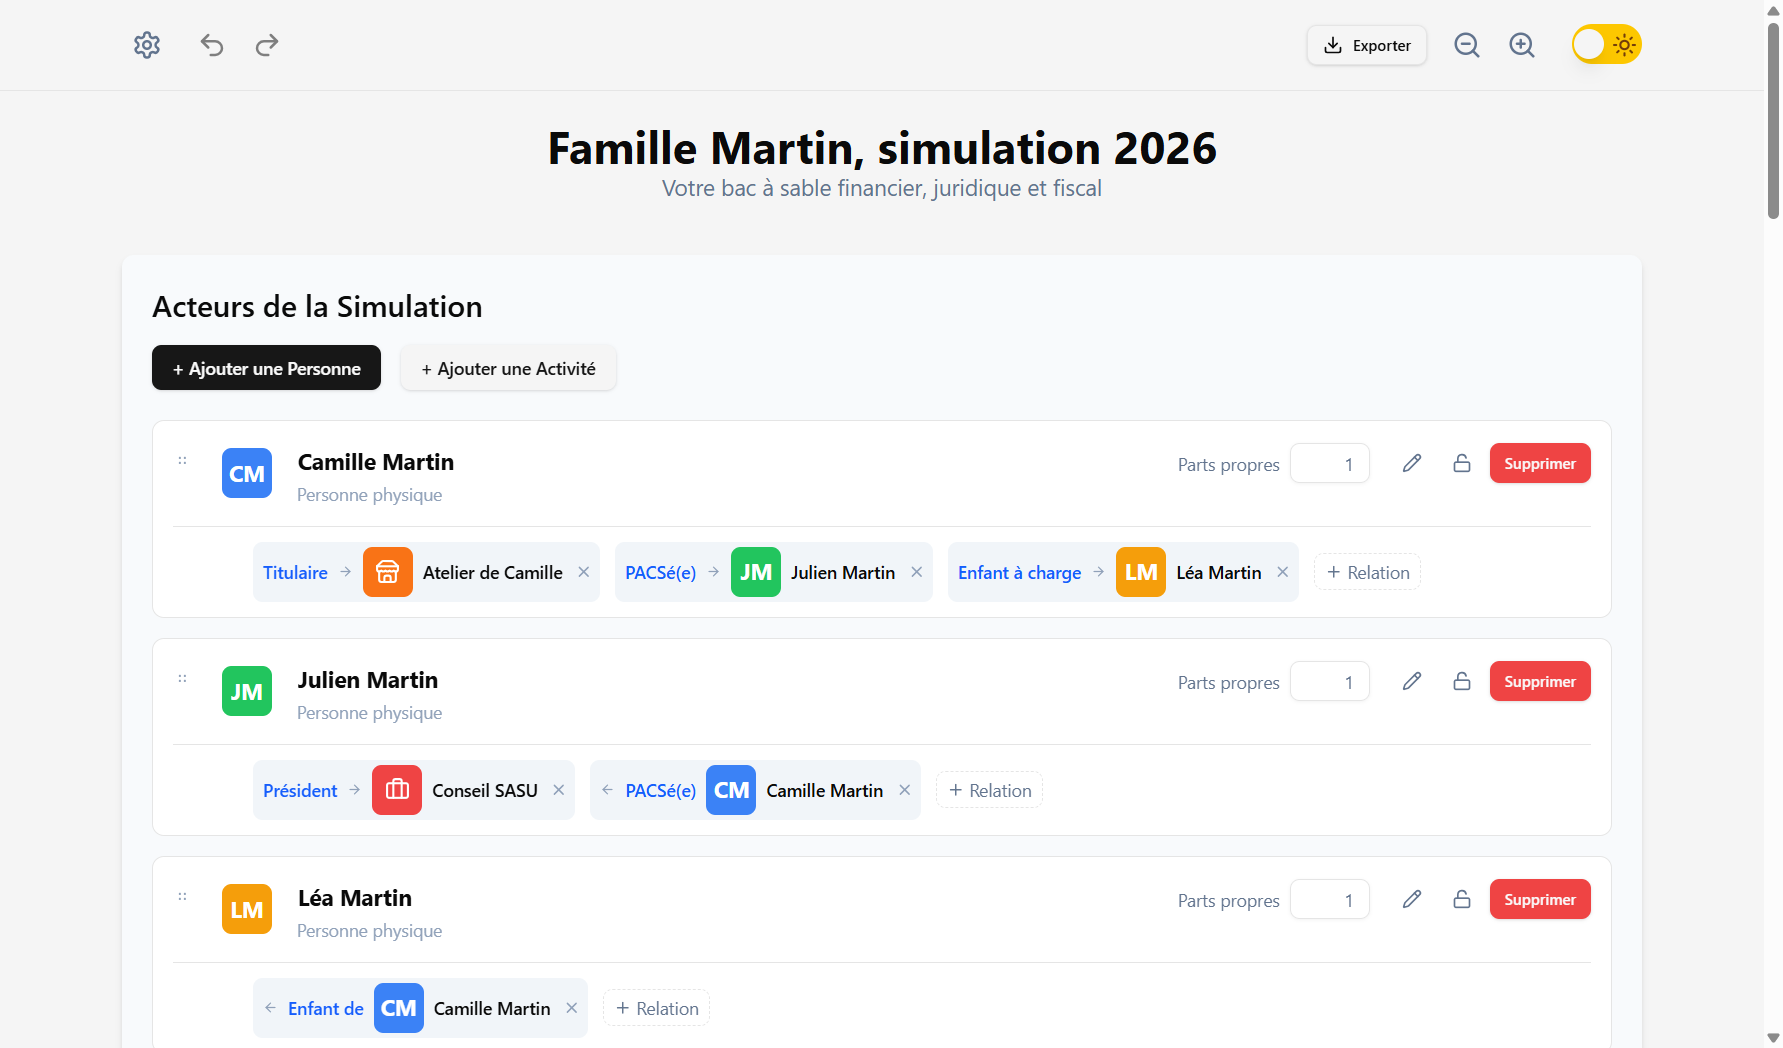
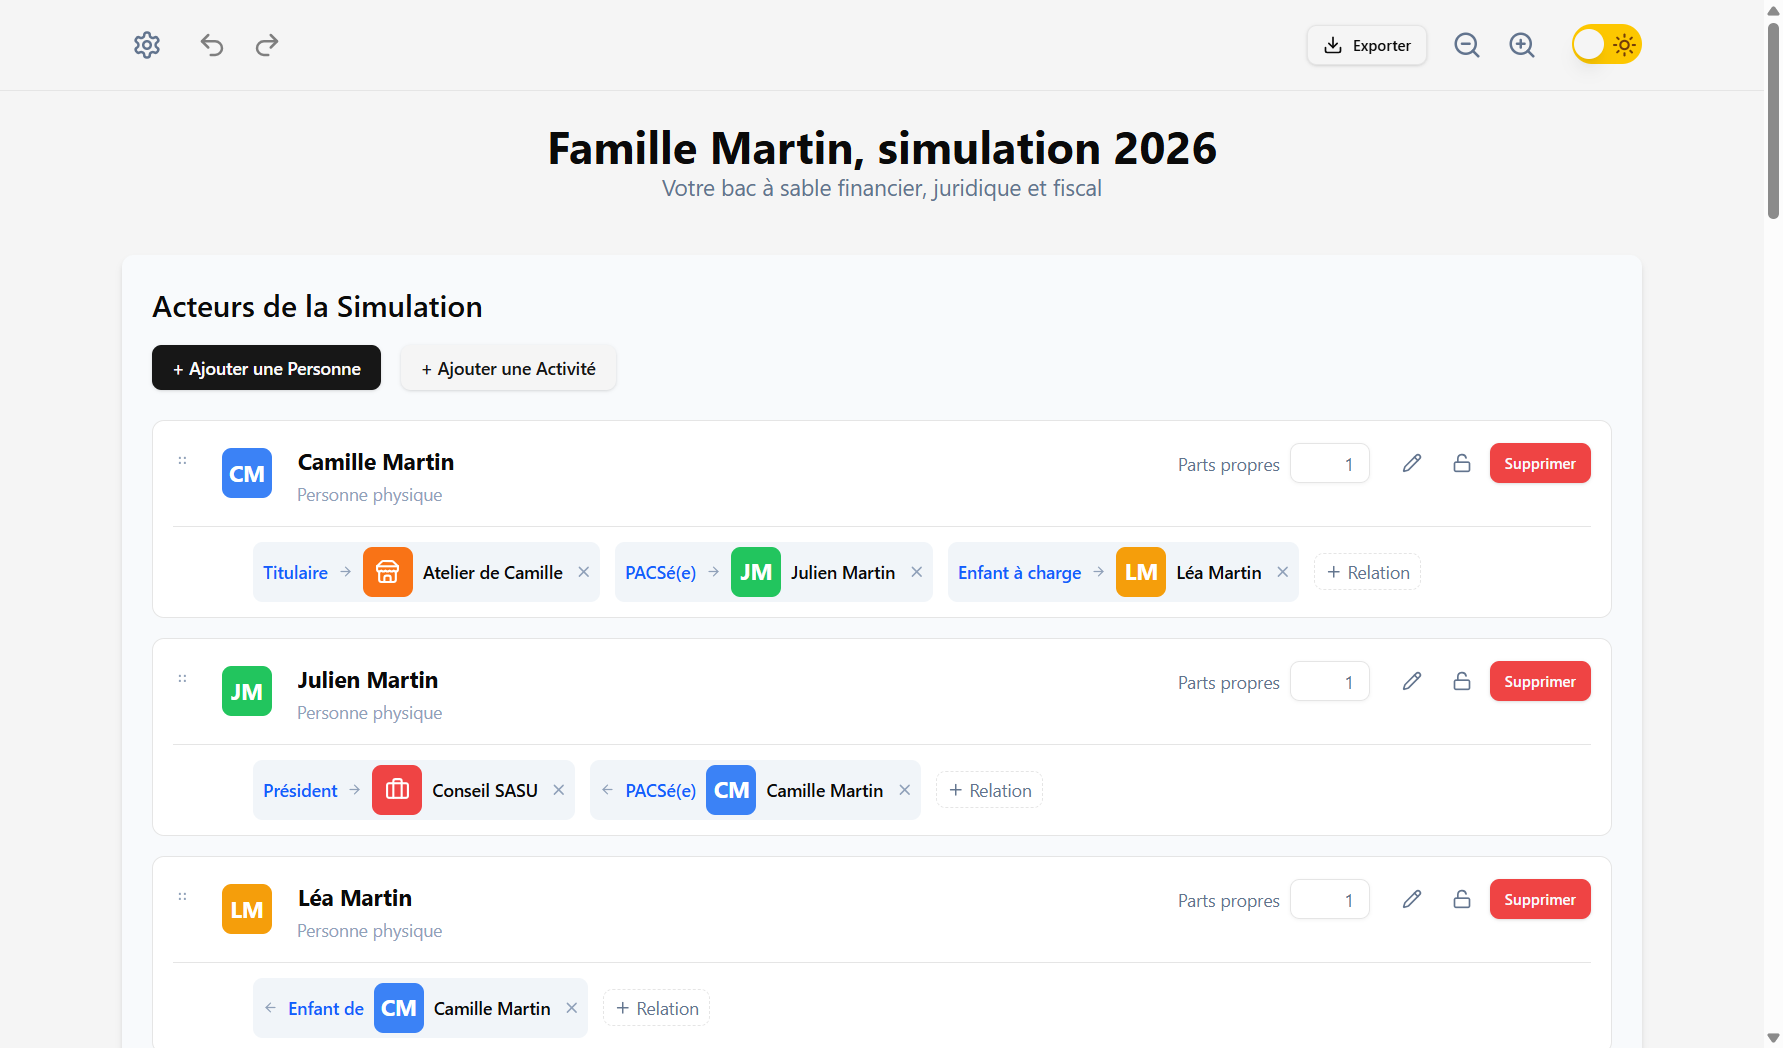
feat: Signaler le dépassement des seuils de franchise de TVA en micro-entreprise
Au-delà du seuil de base, la TVA est due l'année suivante ; au-delà du seuil
majoré, dès le jour du dépassement. La TVA n'est toujours pas calculée : les
montants saisis sont considérés hors taxe.

La simulation d'exemple reste sous le seuil de franchise des prestations ;
captures du README regénérées.

diff --git a/src/backend/logic/references/micro.reference.test.ts b/src/backend/logic/references/micro.reference.test.ts
@@ -17,6 +17,7 @@ import type { MicroEntreprise } from "../../../types.js"
  *   sans pouvoir dépasser le chiffre d'affaires ;
  * - versement libératoire : vente 1 %, BIC 1,7 %, BNC 2,2 % du CA, si le RFR 2024 ne dépasse pas 29 315 € par part ;
  * - plafonds 2026 : 83 600 € de prestations de services, 203 100 € de chiffre d'affaires total ;
+ * - franchise en base de TVA : 37 500 € de prestations (seuil majoré 41 250 €), 85 000 € au total (93 500 €) ;
  * - barème 2026 pour une part : 0 % jusqu'à 11 600 €, 11 % jusqu'à 29 579 €, 30 % jusqu'à 84 577 €, 41 % jusqu'à
  *   181 917 €, 45 % au-delà ; impôt cumulé à 29 579 € : 17 979 x 11 % = 1 977,69 € ;
  * - décote d'un célibataire : 897 € - 45,25 % de l'impôt brut, si elle est positive.
@@ -27,6 +28,11 @@ import type { MicroEntreprise } from "../../../types.js"
 
 const alice = personne("alice")
 const titulaire = [relation("alice", "m1", "Titulaire")]
+
+/** Avertissements sur les plafonds du régime, sans ceux de la franchise de TVA. */
+const plafonds = (warnings: string[]) => warnings.filter(w => w.startsWith("Plafond"))
+/** 40 000 € de prestations : au-dessus du seuil de franchise de TVA (37 500 €), sous le seuil majoré (41 250 €). */
+const tvaAnneeSuivante = expect.stringMatching(/^Seuil de franchise en base de TVA dépassé \(prestations de services 40\s000 € pour un seuil de 37\s500 €\)/)
 
 function simulerMicro(flux: Flux[], options: Partial<Pick<MicroEntreprise, "beneficieACRE" | "opteVFL" | "rfrN2">> = {}) {
   const entreprise: MicroEntreprise = { ...micro("m1"), ...options }
@@ -41,7 +47,7 @@ casDeReference("Cas de référence 2026 : micro-entreprise", () => {
     // Net : 40 000 - 10 240 - 1 467,67 = 28 292,33 €.
     const report = simulerMicro([["m1", "ca_micro_services_bnc", 40000]])
 
-    expect(activite(report, "m1")).toMatchObject({ chiffreAffaires: 40000, cotisationsSociales: 10240, revenuVerse: 29760, warnings: [] })
+    expect(activite(report, "m1")).toMatchObject({ chiffreAffaires: 40000, cotisationsSociales: 10240, revenuVerse: 29760, warnings: [tvaAnneeSuivante] })
     expect(foyerDe(report, "alice")).toMatchObject({ totalParts: 1, revenuImposableGlobal: 26400, impotSurLeRevenu: 1468, prelevementsSociaux: 0, netApresImpots: 28292 })
     verifierIdentiteDuBilan(report)
   })
@@ -137,7 +143,7 @@ casDeReference("Cas de référence 2026 : micro-entreprise", () => {
     expect(activite(report, "m1")).toMatchObject({
       cotisationsSociales: 10240,
       versementLiberatoire: { plafondRfr: 29315, partsFiscales: 1, rfrN2: 25000, eligible: true, applique: true },
-      warnings: []
+      warnings: [tvaAnneeSuivante]
     })
     expect(foyerDe(report, "alice")).toMatchObject({ revenuImposableGlobal: 0, impotSurLeRevenu: 880, netApresImpots: 28880 })
     verifierIdentiteDuBilan(report)
@@ -179,15 +185,27 @@ casDeReference("Cas de référence 2026 : micro-entreprise", () => {
     const resultat = activite(report, "m1")
 
     expect(resultat.cotisationsSociales).toBe(23040)
-    expect(resultat.warnings).toHaveLength(1)
-    expect(resultat.warnings[0]).toContain("prestations de services")
+    expect(plafonds(resultat.warnings)).toEqual([expect.stringContaining("prestations de services")])
     expect(foyerDe(report, "alice")).toMatchObject({ revenuImposableGlobal: 59400, impotSurLeRevenu: 10924, netApresImpots: 56036 })
   })
 
   it("prestations BNC de 83 600 € : plafond atteint mais pas dépassé", () => {
     const report = simulerMicro([["m1", "ca_micro_services_bnc", 83600]])
 
-    expect(activite(report, "m1").warnings).toEqual([])
+    expect(plafonds(activite(report, "m1").warnings)).toEqual([])
+  })
+
+  it("franchise en base de TVA : 37 500 € de prestations restent en franchise, 41 300 € la font perdre aussitôt", () => {
+    const tva = (ca: number) => activite(simulerMicro([["m1", "ca_micro_services_bnc", ca]]), "m1").warnings.filter(w => w.includes("TVA"))
+
+    expect(tva(37500)).toEqual([])
+    expect(tva(37600)).toEqual([expect.stringMatching(/^Seuil de franchise .*37\s500 €.*1er janvier suivant/)])
+    expect(tva(41300)).toEqual([expect.stringMatching(/^Franchise en base de TVA perdue .*41\s250 €.*dès le jour du dépassement/)])
+  })
+
+  it("franchise en base de TVA : 93 600 € de vente dépassent le seuil majoré de 93 500 €", () => {
+    const report = simulerMicro([["m1", "ca_micro_vente", 93600]])
+    expect(activite(report, "m1").warnings).toEqual([expect.stringMatching(/^Franchise en base de TVA perdue \(chiffre d'affaires total 93\s600 € pour un seuil de 93\s500 €\)/)])
   })
 
   it("activité mixte : vente 180 000 € et BIC 30 000 €, plafond total dépassé", () => {
@@ -203,9 +221,10 @@ casDeReference("Cas de référence 2026 : micro-entreprise", () => {
     const resultat = activite(report, "m1")
 
     expect(resultat.cotisationsSociales).toBe(28500)
-    expect(resultat.warnings).toHaveLength(1)
-    expect(resultat.warnings[0]).toContain("chiffre d'affaires total")
-    expect(resultat.warnings[0]).not.toContain("prestations de services")
+    const [plafond, ...autres] = plafonds(resultat.warnings)
+    expect(autres).toEqual([])
+    expect(plafond).toContain("chiffre d'affaires total")
+    expect(plafond).not.toContain("prestations de services")
     expect(foyerDe(report, "alice")).toMatchObject({ revenuImposableGlobal: 67200, impotSurLeRevenu: 13264, netApresImpots: 168236 })
   })
 

diff --git a/src/backend/logic/calculsIndividuels.test.ts b/src/backend/logic/calculsIndividuels.test.ts
@@ -11,6 +11,9 @@ function micro(entrees: Partial<EntreesMicro>) {
   return calculerMicro({ caVente: 0, caServicesBic: 0, caServicesBnc: 0, beneficieACRE: false, opteVFL: false, ...entrees }, reglesDeTest)
 }
 
+/** Avertissements sur les plafonds du régime, sans ceux de la franchise de TVA. */
+const plafonds = (warnings: string[]) => warnings.filter(w => w.startsWith("Plafond"))
+
 describe("calculerMicro", () => {
   it("calcule les cotisations et le revenu imposable par nature d'activité", () => {
     const resultat = micro({ caVente: 10000, caServicesBic: 20000, caServicesBnc: 30000 })
@@ -19,13 +22,13 @@ describe("calculerMicro", () => {
     expect(resultat.cotisationsSociales).toBeCloseTo(1000 + 4000 + 7500)
     expect(resultat.revenuImposable).toBeCloseTo(3000 + 10000 + 21000)
     expect(resultat.versementLiberatoire).toBe(0)
-    expect(resultat.warnings).toEqual([])
+    expect(plafonds(resultat.warnings)).toEqual([])
   })
 
   it("prévient qu'avec l'ACRE, les droits à la retraite sont réduits", () => {
     const resultat = micro({ caServicesBnc: 50000, beneficieACRE: true })
 
-    expect(resultat.warnings).toEqual([expect.stringMatching(/^ACRE : cotisations réduites de 50 %.*moins de trimestres de retraite/)])
+    expect(resultat.warnings).toContainEqual(expect.stringMatching(/^ACRE : cotisations réduites de 50 %.*moins de trimestres de retraite/))
   })
 
   it("réduit les cotisations avec l'ACRE, sans toucher au revenu imposable", () => {
@@ -69,25 +72,50 @@ describe("calculerMicro", () => {
     })
   })
 
+  // Règles de test : franchise de TVA à 40 000 € (seuil majoré 45 000 €) pour les services, 100 000 € (110 000 €) au total.
+  describe("franchise en base de TVA", () => {
+    const tva = (entrees: Partial<EntreesMicro>) => micro(entrees).warnings.filter(w => w.includes("TVA"))
+
+    it("ne dit rien sous les seuils de franchise", () => {
+      expect(tva({ caVente: 60000, caServicesBnc: 39000 })).toEqual([])
+    })
+
+    it("au-delà du seuil de base, la TVA est due à partir de l'année suivante", () => {
+      const [avertissement, ...autres] = tva({ caServicesBnc: 42000 })
+      expect(autres).toEqual([])
+      expect(avertissement).toMatch(/^Seuil de franchise en base de TVA dépassé \(prestations de services .* pour un seuil de 40\s000 €\) : la TVA sera due à partir du 1er janvier suivant\. .*hors taxe/)
+    })
+
+    it("au-delà du seuil majoré, la TVA est due immédiatement", () => {
+      expect(tva({ caServicesBic: 46000 })).toEqual([expect.stringMatching(/^Franchise en base de TVA perdue \(prestations de services .* pour un seuil de 45\s000 €\) : la TVA est due dès le jour du dépassement/)])
+    })
+
+    it("une activité mixte est aussi comparée au seuil du chiffre d'affaires total", () => {
+      const [avertissement] = tva({ caVente: 80000, caServicesBic: 25000 })
+      expect(avertissement).toMatch(/^Seuil de franchise .*chiffre d'affaires total .* pour un seuil de 100\s000 €/)
+      expect(avertissement).not.toContain("prestations de services")
+    })
+  })
+
   describe("plafonds de chiffre d'affaires", () => {
     it("accepte une activité mixte sous les deux plafonds", () => {
-      expect(micro({ caVente: 100000, caServicesBic: 70000 }).warnings).toEqual([])
-      expect(micro({ caVente: 40000, caServicesBnc: 40000 }).warnings).toEqual([])
+      expect(plafonds(micro({ caVente: 100000, caServicesBic: 70000 }).warnings)).toEqual([])
+      expect(plafonds(micro({ caVente: 40000, caServicesBnc: 40000 }).warnings)).toEqual([])
     })
 
     it("signale des prestations de services au-dessus de leur plafond", () => {
-      const resultat = micro({ caServicesBic: 50000, caServicesBnc: 40000 })
+      const resultat = plafonds(micro({ caServicesBic: 50000, caServicesBnc: 40000 }).warnings)
 
-      expect(resultat.warnings).toHaveLength(1)
-      expect(resultat.warnings[0]).toContain("prestations de services")
-      expect(resultat.warnings[0]).not.toContain("chiffre d'affaires total")
+      expect(resultat).toHaveLength(1)
+      expect(resultat[0]).toContain("prestations de services")
+      expect(resultat[0]).not.toContain("chiffre d'affaires total")
     })
 
     it("signale un chiffre d'affaires total au-dessus du plafond de la vente", () => {
-      const resultat = micro({ caVente: 150000, caServicesBic: 60000 })
+      const resultat = plafonds(micro({ caVente: 150000, caServicesBic: 60000 }).warnings)
 
-      expect(resultat.warnings).toHaveLength(1)
-      expect(resultat.warnings[0]).toContain("chiffre d'affaires total")
+      expect(resultat).toHaveLength(1)
+      expect(resultat[0]).toContain("chiffre d'affaires total")
     })
 
     it("continue de calculer cotisations et revenu imposable au-dessus du plafond", () => {

diff --git a/src/backend/logic/calculsAE.ts b/src/backend/logic/calculsAE.ts
@@ -43,6 +43,28 @@ function verifierPlafonds(entrees: EntreesMicro, plafonds: ReglesMicro["plafonds
 }
 
 /**
+ * Franchise en base de TVA : comme pour les plafonds, les prestations de services sont comparées au seuil des services
+ * et le chiffre d'affaires total à celui de la vente. Le seuil majoré fait perdre la franchise immédiatement,
+ * le seuil de base seulement l'année suivante. La TVA n'est pas calculée : les montants saisis sont hors taxe.
+ */
+function verifierFranchiseTVA(entrees: EntreesMicro, seuils: ReglesFiscales["TVA"]): string[] {
+  const caServices = entrees.caServicesBic + entrees.caServicesBnc
+  const caTotal = entrees.caVente + caServices
+  const depasse = (seuil: "franchiseBase" | "seuilMajore") => {
+    const depassements: string[] = []
+    if (caServices > seuils.services[seuil]) depassements.push(`prestations de services ${euros(caServices)} pour un seuil de ${euros(seuils.services[seuil])}`)
+    if (caTotal > seuils.vente[seuil]) depassements.push(`chiffre d'affaires total ${euros(caTotal)} pour un seuil de ${euros(seuils.vente[seuil])}`)
+    return depassements.join(" ; ")
+  }
+  const nonCalculee = "Le simulateur ne calcule pas la TVA : il considère les montants saisis comme hors taxe."
+  const majore = depasse("seuilMajore")
+  if (majore) return [`Franchise en base de TVA perdue (${majore}) : la TVA est due dès le jour du dépassement. ${nonCalculee}`]
+  const base = depasse("franchiseBase")
+  if (base) return [`Seuil de franchise en base de TVA dépassé (${base}) : la TVA sera due à partir du 1er janvier suivant. ${nonCalculee}`]
+  return []
+}
+
+/**
  * Abattement d'une fraction du chiffre d'affaires : son taux, sans descendre sous le minimum,
  * ni dépasser le chiffre d'affaires de la fraction.
  */
@@ -75,7 +97,7 @@ export function plafondRfrVersementLiberatoire(partsFiscales: number, regles: Re
  */
 export function calculerMicro(entrees: EntreesMicro, regles: ReglesFiscales = reglesEnVigueur): ResultatMicro {
   const micro = regles.microEntreprise
-  const warnings = verifierPlafonds(entrees, micro.plafonds)
+  const warnings = [...verifierPlafonds(entrees, micro.plafonds), ...verifierFranchiseTVA(entrees, regles.TVA)]
 
   const cotisationsPleinTaux = appliquerTaux(entrees, micro.cotisations)
   if (entrees.beneficieACRE) {

diff --git a/src/web/session-exemple.ts b/src/web/session-exemple.ts
@@ -28,7 +28,7 @@ export function sessionExemple(): SessionState {
   const monthlyData = Array.from({ length: 12 }, (_, mois) => ({
     month: mois,
     flows: [
-      flux(atelier.id, "ca_micro_services_bnc", 3200 + (mois % 3) * 400, "Prestations", mois),
+      flux(atelier.id, "ca_micro_services_bnc", 2600 + (mois % 3) * 300, "Prestations", mois),
       flux(atelier.id, "ca_micro_vente", mois % 4 === 0 ? 900 : 300, "Ventes", mois),
       flux(conseil.id, "ca_services", 6500, "Facturation", mois),
       flux(conseil.id, "director_remuneration", 2500, "Rémunération", mois)

diff --git a/src/backend/logic/testing/regles-de-test.ts b/src/backend/logic/testing/regles-de-test.ts
@@ -68,6 +68,7 @@ export const reglesDeTest: ReglesFiscales = {
   },
   protectionSociale: { revenuParTrimestre: 2000, tauxNetSurBrutSalarie: 0.8, tauxRetraiteDeBase: 0.2, partRetraiteDeBaseMicro: { venteBic: 0.4, servicesBic: 0.4, servicesBnc: 0.5 } },
   EURL: { seuilDividendesPartDuCapital: 0.1 },
+  TVA: { services: { franchiseBase: 40000, seuilMajore: 45000 }, vente: { franchiseBase: 100000, seuilMajore: 110000 } },
   microEntreprise: {
     plafonds: { services: 80000, vente: 200000 },
     cotisations: { venteBic: 0.1, servicesBic: 0.2, servicesBnc: 0.25 },

diff --git a/src/backend/logic/regles.ts b/src/backend/logic/regles.ts
@@ -77,6 +77,8 @@ export interface ReglesFiscales {
     partRetraiteDeBaseMicro: TauxMicro
   }
   EURL: { seuilDividendesPartDuCapital: number }
+  /** Seuils de la franchise en base de TVA : au-delà du seuil de base l'année suivante, au-delà du seuil majoré immédiatement. */
+  TVA: Record<"services" | "vente", { franchiseBase: number; seuilMajore: number }>
   microEntreprise: {
     plafonds: { services: number; vente: number }
     cotisations: TauxMicro

diff --git a/README.md b/README.md
@@ -123,7 +123,7 @@ npm run test:mutation  # tests de mutation (Stryker), rapport dans reports/mutat
 - POC : les résultats illustrent l'ingénierie, ils n'ont pas été validés par un expert-comptable.
 - Les cotisations des travailleurs non salariés (gérant d'EURL, entrepreneur individuel au réel) sont calculées ligne à ligne selon le barème 2026 des artisans, commerçants et professions libérales non réglementées (assiette unique abattue de 26 %, assiettes minimales) ; ne sont pas modélisés les professions libérales réglementées, la contribution des artisans à la formation (0,29 %), le décalage entre cotisations provisionnelles et régularisation, ni la CSG déductible sur les dividendes soumis à cotisations. Celles du président de SASU restent approchées par un ratio moyen entre coût total et net.
 - La note de protection sociale du comparateur est indicative : elle combine le régime et les trimestres de retraite validés.
-- Non modélisés : réductions et crédits d'impôt, résidence alternée, report des déficits, TVA, répartition du capital entre associés (dividendes partagés à parts égales).
+- Non modélisés : réductions et crédits d'impôt, résidence alternée, report des déficits, TVA (seul le dépassement des seuils de franchise est signalé en micro-entreprise ; les montants sont hors taxe), répartition du capital entre associés (dividendes partagés à parts égales).
 
 ## 📄 Licence
 
